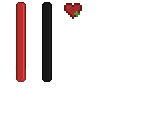
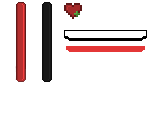
Незначительные изменения

Changed region(s): [[0.4012, 0.2121, 0.9259, 0.3939], [0.3704, 0.2424, 0.4012, 0.2727]]

diff --git a/Game/Levels/LevelStart.cs b/Game/Levels/LevelStart.cs
@@ -15,36 +15,36 @@ namespace Game.Levels
 
         public LevelStart()
         {
-            slime1 = new Slime(500, 500, new SlimeModel());
-            slime2 = new Slime(800, 800, new SlimeModel());
-            slime3 = new Slime(700, 800, new SlimeModel());
+            slime1 = new Slime(945, 290, new SlimeModel());
+            slime2 = new Slime(1115, 580, new SlimeModel());
+            slime3 = new Slime(1470, 265, new SlimeModel());
         }
 
         public int[,] map => new int[height, width]
             {
                 {5, 8, 8,  8,    8,    8, 8, 8, 8, 8, 8, 8, 8, 8, 8, 8, 8, 8, 8, 8, 8, 8, 8, 8, 8, 8, 8, 8, 8, 6},
-                {9, 0, 0,   0,    0,    0, 0, 0, 0, 0, 0, 0, 0, 0, 0, 0, 0, 0, 0, 0, 0, 0, 0, 0, 0, 0, 0, 0, 0, 11},
-                {9, 0, 0,   0,    26,   0, 0, 0, 0, 0, 0, 0, 0, 0, 0,0, 0, 0, 0, 0, 0, 0, 0, 0, 0, 0, 0, 0, 0, 11},
-                {9, 0, 0,   0,    1,    2, 3, 27, 0,0, 0, 0, 0, 0, 0, 0, 0, 0, 0, 0, 0, 0, 0, 0, 0, 0, 0, 0, 0, 11},
-                {9, 0, 0,   0,    13,   29, 21, 3, 0, 0, 0, 0, 0, 0, 0, 0, 0, 0, 0, 0,0, 0, 0, 0, 0, 0, 0, 0, 0, 11},
-                {9, 0, 0,   25,   16,   17, 20, 21, 3, 27,0, 0, 0, 0, 0, 0, 0, 0, 0, 0, 0, 0, 0, 0, 0, 0, 0, 0, 0, 11},
-                {9, 0, 0,   0,    0,    28, 16, 20, 21, 3,0, 0, 0, 0, 0, 0, 0, 0, 0, 0, 0, 0, 0, 0, 0, 0, 0, 0, 0, 11},
-                {9, 0, 0,   0,    0,    0, 0, 13, 14, 15, 0,0, 0, 0, 0, 0, 0, 0, 0, 0, 0, 0, 0, 0, 0, 0, 0, 0, 0, 11},
-                {9, 0, 0,   0,    0,    0, 0, 13, 14, 15, 0,0, 0, 25, 0, 0, 0, 0, 0, 0, 0, 0, 0, 0, 0, 0, 0, 0, 0, 11},
-                {9, 0, 0,   0,    0,    0, 0, 13, 31, 21, 3, 26,0, 0, 0, 0, 0, 0, 0, 0, 0, 0, 0, 0, 0, 0, 0, 0, 0, 11},
+                {9, 0, 25,   0,    0,    0, 0, 0, 25, 0, 0, 0, 0, 0, 0, 25, 0, 0, 0, 0, 25, 0, 0, 0, 0, 25, 0, 0, 0, 11},
+                {9, 0, 0,   0,    26,   0, 0, 0, 0, 0, 0, 0, 0, 0, 26,0, 0, 0, 0, 0, 0, 0, 0, 0, 0, 0, 0, 0, 0, 11},
+                {9, 0, 0,   0,    1,    2, 3, 27, 0,0, 0, 0, 0, 0, 0, 0, 25, 0, 0, 0, 0, 0, 0, 0, 25, 0, 0, 0, 0, 11},
+                {9, 0, 0,   0,    13,   29, 21, 3, 0, 0, 0, 0, 25, 0, 0, 25, 0, 0, 0, 26,0, 0, 0, 0, 0, 0, 0, 0, 0, 11},
+                {9, 0, 0,   25,   16,   17, 20, 21, 3, 27,0, 0, 0, 0, 0, 0, 0, 0, 25, 0, 0, 0, 0, 0, 0, 0, 0, 0, 0, 11},
+                {9, 0, 0,   0,    0,    28, 16, 20, 21, 3,0, 0, 0, 0, 0, 25, 0, 0, 0, 0, 0, 0, 0, 26, 0, 0, 0, 0, 0, 11},
+                {9, 0, 0,   0,    0,    0, 0, 13, 14, 15, 0,0, 0, 27, 0, 0, 0, 0, 0, 0, 0, 27, 0, 25, 0, 0, 0, 0, 0, 11},
+                {9, 0, 0,   0,    0,    0, 0, 13, 14, 15, 0,0, 0, 25, 0, 0, 0, 0, 0, 0, 0, 0, 0, 0, 0, 26, 0, 0, 0, 11},
+                {9, 25, 0,   0,    0,    0, 0, 13, 31, 21, 3, 26,0, 0, 0, 0, 26, 0, 0, 0, 0, 0, 0, 0, 0, 0, 0, 0, 0, 11},
                 {9, 0, 0,   0,    0,    0, 0, 16, 20, 14, 15,      0,  0,  0,  0,  0,  0,  0,  0,  0,  0,  0,  0,  0,  0,  0, 0, 0, 0, 11},
-                {9, 0, 0,   0,    0,    0, 0, 25,  13, 14, 15,     0,  0,  0,  0,  0,  0,  0,  0,  0,  0,  0,  0, 0, 0, 0, 0, 0, 0, 11},
-                {9, 0, 0,   0,    0,    0, 0, 0,  13, 14, 15, 0,   0,  0,  0,  0,  0,  0,  0,  0,  0,  0,  0,  0, 0, 0, 0, 0, 0, 11},
-                {9, 0, 0,   0,    0,    0, 0, 0,  13, 30, 15, 26,  0,  0,  0,  0,  0,  0,  0,  0,  0,  0,  0,  0, 27, 0, 0, 0, 26, 33},
-                {9, 0, 0,   0,    0,    0, 0, 0,  13, 14, 15,  0,  0,  0,  0,  0,  0,  0,  0,  0,  0,  0,  26,  1, 2, 2, 2, 2, 2, 2},
+                {9, 26, 0,   27,    0,    0, 0, 25,  13, 14, 15,     0,  0,  0,  0,  0,  0,  0,  0,  0,  0,  0,  0, 0, 0, 0, 0, 0, 0, 11},
+                {9, 0, 0,   0,    0,    0, 0, 0,  13, 14, 15, 0,   0,  0,  0,  0,  0,  0,  27,  0,  0,  0,  0,  0, 0, 0, 0, 0, 0, 11},
+                {9, 0, 0,   0,    0,    0, 0, 0,  13, 30, 15, 26,  0,  0,  27,  0,  0,  0,  0,  0,  0,  0,  0,  0, 27, 0, 0, 0, 26, 33},
+                {9, 0, 25,   0,    0,    0, 0, 0,  13, 14, 15,  0,  0,  0,  0,  0,  0,  0,  0,  0,  0,  0,  26,  1, 2, 2, 2, 2, 2, 2},
                 {9, 0, 0,   0,    0,    0, 0, 0,  16, 20,  21, 2,  3,  0,  0,  0,  26,  0,  0,  28,  1,  2,  2,  22, 32, 14, 14, 14, 31, 14},
                 {9, 0, 0,   0,    0,    0, 0, 0,  25,  16,  20, 32, 21, 2,  2,  2,  2,  2,  2,  2,  22, 31, 14, 14, 19, 17, 17, 17, 17, 17},
-                {9, 0, 0,   0,    0,    0, 0, 26,  0,  0,   16, 17, 20, 14, 14, 32, 14, 14, 14, 32, 14, 19, 17, 17, 18, 0, 0, 25, 0, 11},
+                {9, 26, 0,   0,    0,    0, 0, 26,  0,  0,   16, 17, 20, 14, 14, 32, 14, 14, 14, 32, 14, 19, 17, 17, 18, 0, 0, 25, 0, 11},
                 {9, 0, 0,   0,    0,    0, 0, 0,  0,  0,   0,  0,  16, 17, 17, 17, 17, 17, 17, 17, 17, 18, 26,  0, 0, 0, 0, 0, 0, 11},
                 {9, 0, 0,   0,    0,    0, 0, 0,  0,  0, 0, 0, 0, 0, 0, 27, 0, 0, 0, 0, 28, 0, 0, 27, 0, 0, 0, 0, 0, 11},
-                {9, 0, 0,   0,    0,    0, 0, 0,  0,  0, 0, 0, 0, 0, 0, 0, 0, 0, 0, 0, 0, 0, 0, 0, 0, 0, 0, 0, 0, 11},
-                {9, 0, 0,   0,    0,    0, 0, 0,  0,  0, 0, 0, 0, 0, 0, 0, 0, 0, 0, 0, 0, 0, 0, 0, 0, 0, 0, 0, 0, 11},
-                {9, 0, 0,   0,    0,    0, 0, 0,  0,  0, 0, 0, 0, 0, 0, 0, 0, 0, 0, 0, 0, 0, 0, 0, 0, 0, 0, 0, 0, 11},
+                {9, 0, 0,   0,    25,    0, 25, 0,  0,  0, 0, 0, 25, 0, 0, 0, 0, 0, 0, 0, 0, 0, 0, 0, 0, 0, 0, 27, 0, 11},
+                {9, 0, 0,   0,    0,    0, 0, 0,  0,  0, 27, 0, 0, 0, 0, 0, 0, 0, 25, 0, 0, 25, 0, 0, 0, 0, 0, 0, 0, 11},
+                {9, 0, 0,   0,    0,    0, 0, 0,  0,  0, 0, 25, 0, 0, 0, 0, 0, 0, 0, 0, 0, 0, 27, 0, 0, 0, 0, 0, 0, 11},
                 {4, 10, 10, 10,   10,  10, 10, 10, 10, 10, 10,10, 10, 10, 10, 10, 10, 10, 10, 10,10, 10, 10, 10, 10, 10, 10, 10, 10, 7}
             };
 
@@ -60,6 +60,12 @@ namespace Game.Levels
                 new Tree(new Point(1600, 500)),
                 new Tree(new Point(400, 1000)),
                 new Tree(new Point(650, 150)),
+                new Bush(new Point(200, 450)),
+                new Rock(new Point(550, 120)),
+                new Rock(new Point(295, 1200)),
+                new Rock(new Point(380, 800)),
+                new Rock(new Point(1675, 1195)),
+                new Rock(new Point(1465, 500)),
                 slime1, slime2, slime3
             };
     }

diff --git a/Game/Objects/Bush.cs b/Game/Objects/Bush.cs
@@ -1,5 +1,4 @@
-using Game.interfaces;
-using System;
+using System;
 using System.Collections.Generic;
 using System.Drawing;
 using System.Linq;
@@ -8,7 +7,7 @@ using System.Threading.Tasks;
 
 namespace Game.Objects
 {
-    public class Tree : IEntity
+    public class Bush : IEntity
     {
         public ProgressBar healthPoint { get; set; }
         public bool isAlive { get; set; }
@@ -43,14 +42,14 @@ namespace Game.Objects
         public RectangleF collisionBox { get; }
         public RectangleF position { get; set; }
 
-        public Tree(Point position)
+        public Bush(Point position)
         {
             posX = position.X;
             posY = position.Y;
-            sizeX = 192;
-            sizeY = 256;
+            sizeX = 128;
+            sizeY = 128;
             this.position = new RectangleF(position, new Size(sizeX, sizeY));
-            collisionBox = new RectangleF(position.X + 48, position.Y + 174, 96, 56);
+            collisionBox = new RectangleF(position.X + 5, position.Y + 64, 114, 50);
             delta = 10;
         }
 
@@ -60,11 +59,12 @@ namespace Game.Objects
 
         public void PlayAnimation(Graphics g)
         {
-            DrawObject(Textures.objectsSheet, position, new Rectangle(new Point(0, 80), new Size(46, 64)), g);
+            DrawObject(Textures.objectsSheet, position, new Rectangle(new Point(96, 112), new Size(32, 32)), g);
         }
         private void DrawObject(Image image, RectangleF rect, Rectangle rectSrc, Graphics g)
         {
             g.DrawImage(image, rect, rectSrc, GraphicsUnit.Pixel);
+            //g.DrawRectangles(new Pen(Color.Beige), new RectangleF[] { collisionBox });
         }
 
         public void SetRunAnimation() { }

diff --git a/Game/Objects/Rock.cs b/Game/Objects/Rock.cs
@@ -1,5 +1,4 @@
-using Game.interfaces;
-using System;
+using System;
 using System.Collections.Generic;
 using System.Drawing;
 using System.Linq;
@@ -8,7 +7,7 @@ using System.Threading.Tasks;
 
 namespace Game.Objects
 {
-    public class Tree : IEntity
+    public class Rock : IEntity
     {
         public ProgressBar healthPoint { get; set; }
         public bool isAlive { get; set; }
@@ -43,14 +42,14 @@ namespace Game.Objects
         public RectangleF collisionBox { get; }
         public RectangleF position { get; set; }
 
-        public Tree(Point position)
+        public Rock(Point position)
         {
             posX = position.X;
             posY = position.Y;
-            sizeX = 192;
-            sizeY = 256;
+            sizeX = 64;
+            sizeY = 64;
             this.position = new RectangleF(position, new Size(sizeX, sizeY));
-            collisionBox = new RectangleF(position.X + 48, position.Y + 174, 96, 56);
+            collisionBox = new RectangleF(position.X, position.Y + 24, 64, 20);
             delta = 10;
         }
 
@@ -60,11 +59,12 @@ namespace Game.Objects
 
         public void PlayAnimation(Graphics g)
         {
-            DrawObject(Textures.objectsSheet, position, new Rectangle(new Point(0, 80), new Size(46, 64)), g);
+            DrawObject(Textures.objectsSheet, position, new Rectangle(new Point(0, 16), new Size(14, 16)), g);
         }
         private void DrawObject(Image image, RectangleF rect, Rectangle rectSrc, Graphics g)
         {
             g.DrawImage(image, rect, rectSrc, GraphicsUnit.Pixel);
+            //g.DrawRectangles(new Pen(Color.Beige), new RectangleF[] { collisionBox });
         }
 
         public void SetRunAnimation() { }

diff --git a/Game/Models/Player.cs b/Game/Models/Player.cs
@@ -1,5 +1,6 @@
 using Game.Objects;
 using System.Drawing;
+using System.Drawing.Text;
 using System.Linq;
 using System.Runtime.InteropServices;
 using System.Timers;
@@ -9,7 +10,7 @@ namespace Game.Models
 {
     public class Player : IEntity
     {
-        public HealthBar healthPoint { get; set; }
+        public ProgressBar healthPoint { get; set; }
         public bool isAlive { get { return healthPoint.currentValue > 0; } set { healthPoint.currentValue = 1; } }
         public bool isImmunity { get; set; }
 
@@ -99,7 +100,7 @@ namespace Game.Models
                 foreach (var e in mapController.currentLevel.entities.Where(x =>
                 {
                     var type = x.GetType();
-                    return type == typeof(Tree);
+                    return type == typeof(Tree) || type == typeof(Bush) || type == typeof(Rock);
                 }))
                 {
                     if (new RectangleF(collisionBox.X + dirX, collisionBox.Y, collisionBox.Width, collisionBox.Height).IntersectsWith(e.collisionBox))
@@ -138,6 +139,7 @@ namespace Game.Models
         {
             g.DrawImage(Textures.playerSheet, position, spriteSrc, GraphicsUnit.Pixel);
             healthPoint.Update();
+            g.DrawString($"{posX},{posY}", new Font("Times New Roman", 12.0f), Brushes.AliceBlue, new PointF(posX, posY));
 
 
             if (++currentTime > preiod)
@@ -226,7 +228,7 @@ namespace Game.Models
 
                 if (currentAttack.IntersectsWith(entity.collisionBox))
                 {
-                    entity.isAlive = false;
+                    entity.healthPoint.currentValue -= 10;
                 }
             }
         }

diff --git a/Game/Models/Slime.cs b/Game/Models/Slime.cs
@@ -9,8 +9,8 @@ namespace Game.Models
 {
     public class Slime : IEntity
     {
-        public HealthBar healthPoint { get; set; }
-        public bool isAlive { get; set; }
+        public ProgressBar healthPoint { get; set; }
+        public bool isAlive { get { return healthPoint.currentValue > 0; } set { healthPoint.currentValue = 10; } }
 
         public float posX { get; set; }
         public float posY { get; set; }
@@ -65,7 +65,7 @@ namespace Game.Models
             delta = model.delta;
             currentLimit = idleFrames;
             flip = 1;
-            isAlive = true;
+            healthPoint = new HealthBar(20, new Point(0, 0));
         }
 
         private void Move()
@@ -88,7 +88,7 @@ namespace Game.Models
             var flag1 = true;
             var flag2 = true;
 
-            if (++attackTime > attackPeriod && !isAttack && GetDistance(collisionBox, player.collisionBox) < 130)
+            if (++attackTime > attackPeriod && !isAttack && GetDistance(collisionBox, player.collisionBox) < 120)
             {
                 SetAnimation(2);
                 Move();
@@ -100,7 +100,7 @@ namespace Game.Models
             foreach (var e in mapController.currentLevel.entities.Where(x =>
             {
                 var type = x.GetType();
-                return type == typeof(Tree);
+                return type == typeof(Tree) || type == typeof(Bush) || type == typeof(Rock);
             }))
             #region
             {

diff --git a/Game/ProgressBars/ProgressBar.cs b/Game/ProgressBars/ProgressBar.cs
@@ -2,8 +2,10 @@
 using System.Collections.Generic;
 using System.Drawing;
 using System.Linq;
+using System.Numerics;
 using System.Text;
 using static Game.MVC;
+using static System.Windows.Forms.VisualStyles.VisualStyleElement.TrayNotify;
 
 namespace Game
 {
@@ -24,12 +26,10 @@ namespace Game
 
         public virtual void Update()
         {
-            
         }
 
         public virtual void Draw(Graphics g)
         {
-            
         }
     }
 }

diff --git a/Game/interfaces/IEntity.cs b/Game/interfaces/IEntity.cs
@@ -8,7 +8,7 @@ namespace Game
 {
     public interface IEntity
     {
-        HealthBar healthPoint { get; set; }
+        ProgressBar healthPoint { get; set; }
         bool isAlive { get; set; }
 
         float posX { get; set; }
